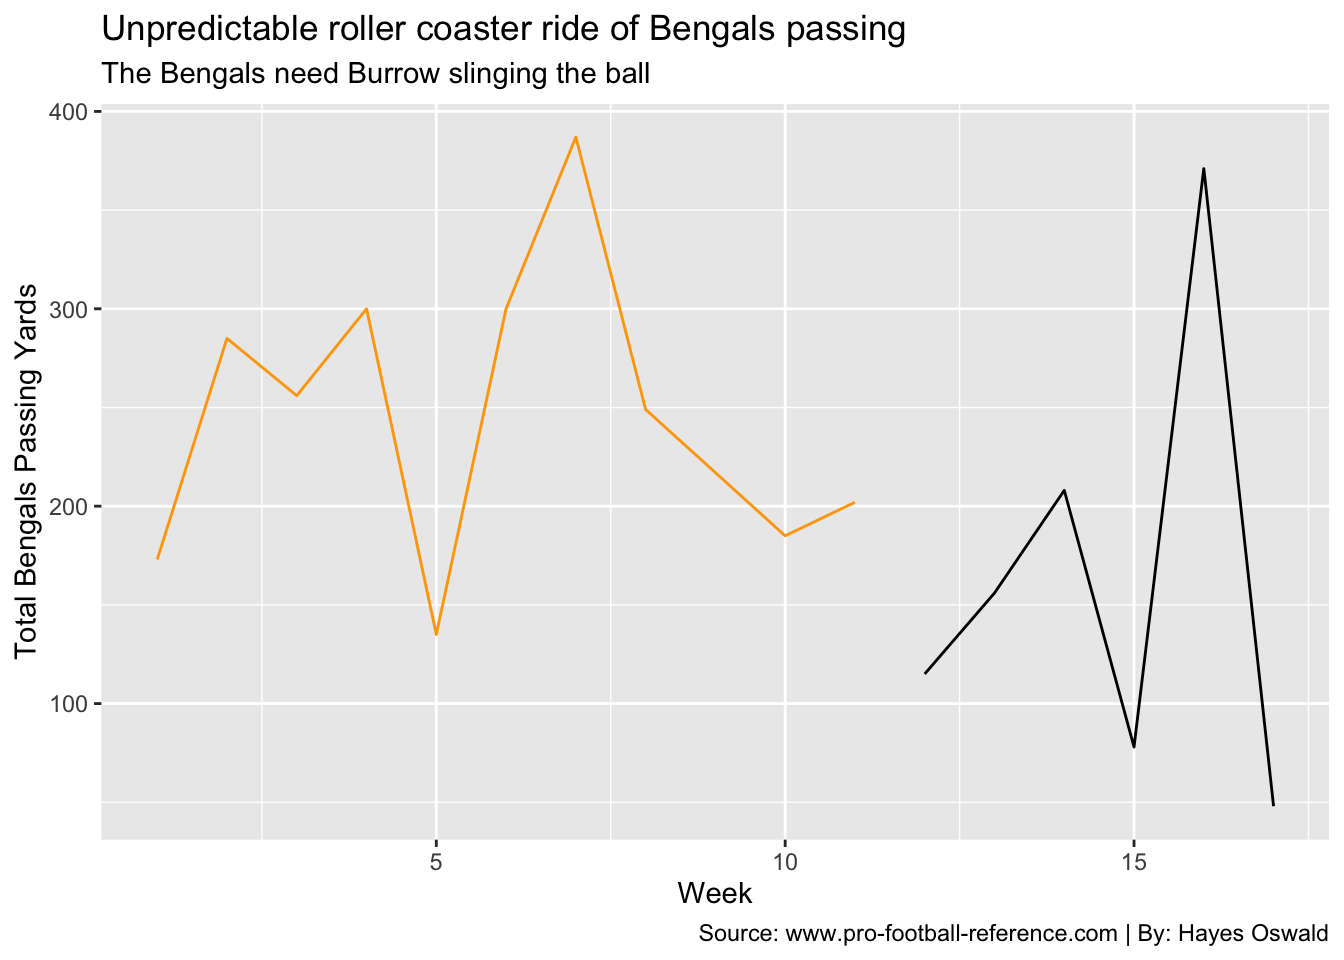
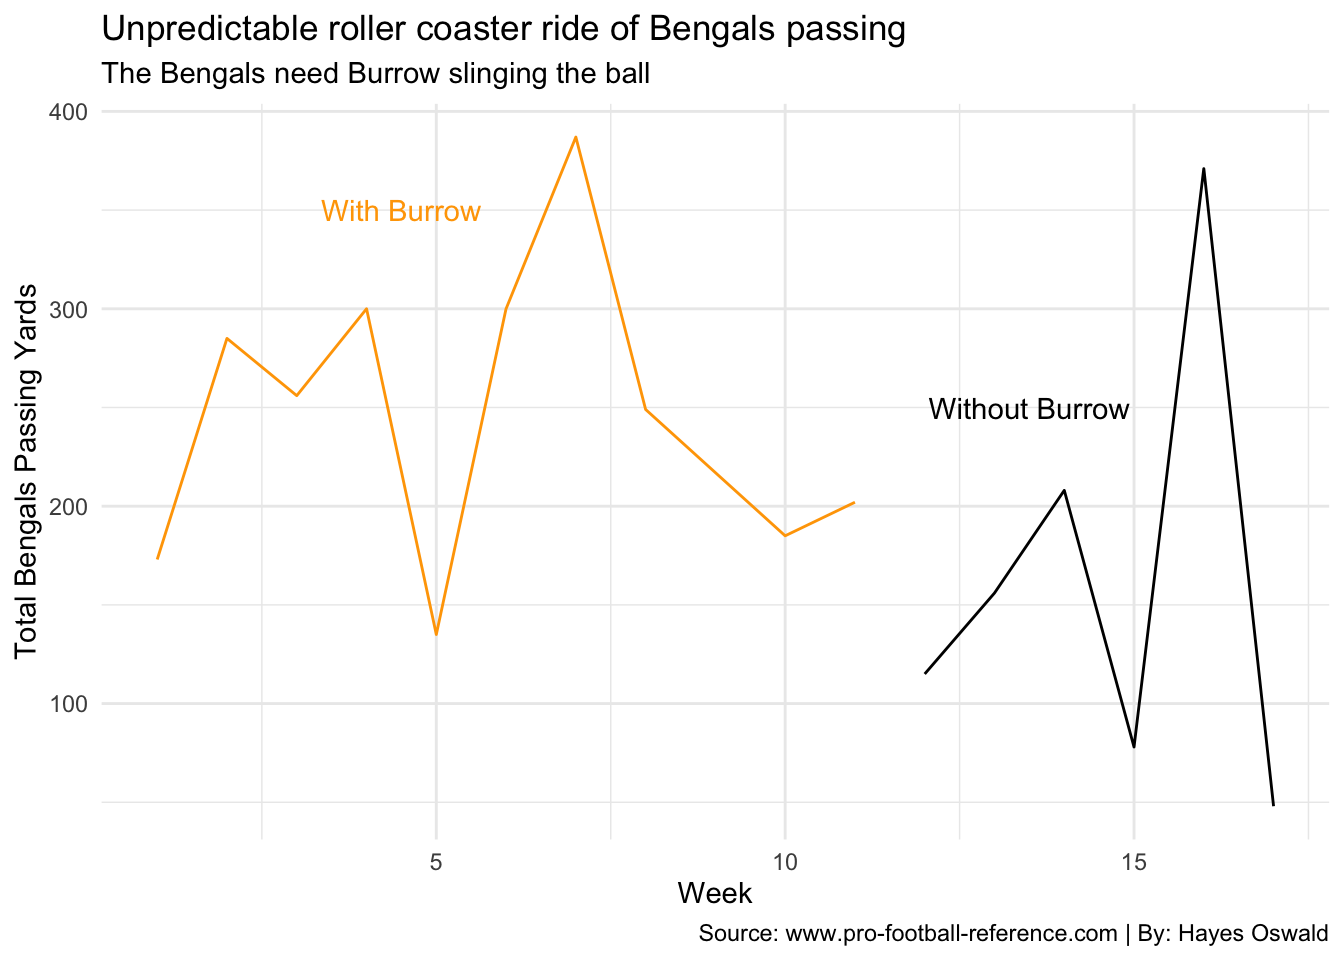
burrow9

diff --git a/2021/11/30/why-the-bengals-need-joe-burrow/index.html b/2021/11/30/why-the-bengals-need-joe-burrow/index.html
@@ -150,9 +150,13 @@ As you can see from the chart the Bengals only averaged around 5 more points per
     title = &quot;Unpredictable roller coaster ride of Bengals passing&quot;,
     subtitle = &quot;The Bengals need Burrow slinging the ball&quot;,
     caption=&quot;Source: www.pro-football-reference.com | By: Hayes Oswald&quot;
-  )</code></pre>
+  ) +
+  theme_minimal() +
+  geom_text(aes(x=4.5, y=350, label=&quot;With Burrow&quot;), color=&quot;orange&quot;) +
+  geom_text(aes(x=13.5, y=250, label=&quot;Without Burrow&quot;), color=&quot;black&quot;)</code></pre>
 <p><img src="/post/2021-11-30-why-the-bengals-need-joe-burrow/burrowpost_files/figure-html/unnamed-chunk-7-1.png" width="672" />
 You can see from the chart the we created above that the Bengals were a lot more consistent with Burrow at quarterback then without him. They had some down weeks under Burrow but consistently stayed around the 250-280 passing yards mark. That is not the same for the Bengals without Burrow as they went on a roller coaster ride each week passing, hitting a high of 371 and a low of 48 yards.</p>
+<p>Now that we found how badly the Bengals needed Joe Burrow the in the passing game, let’s check how it effected their rushing game. I know that the quarterback doesn’t run the ball a lot to effect the rushing game as much as the running back but they still play a vital role in how the rushing game performs. Let’s see how losing Burrow effected the Bengals rushing offense.</p>
 
     </div>
   </article>
